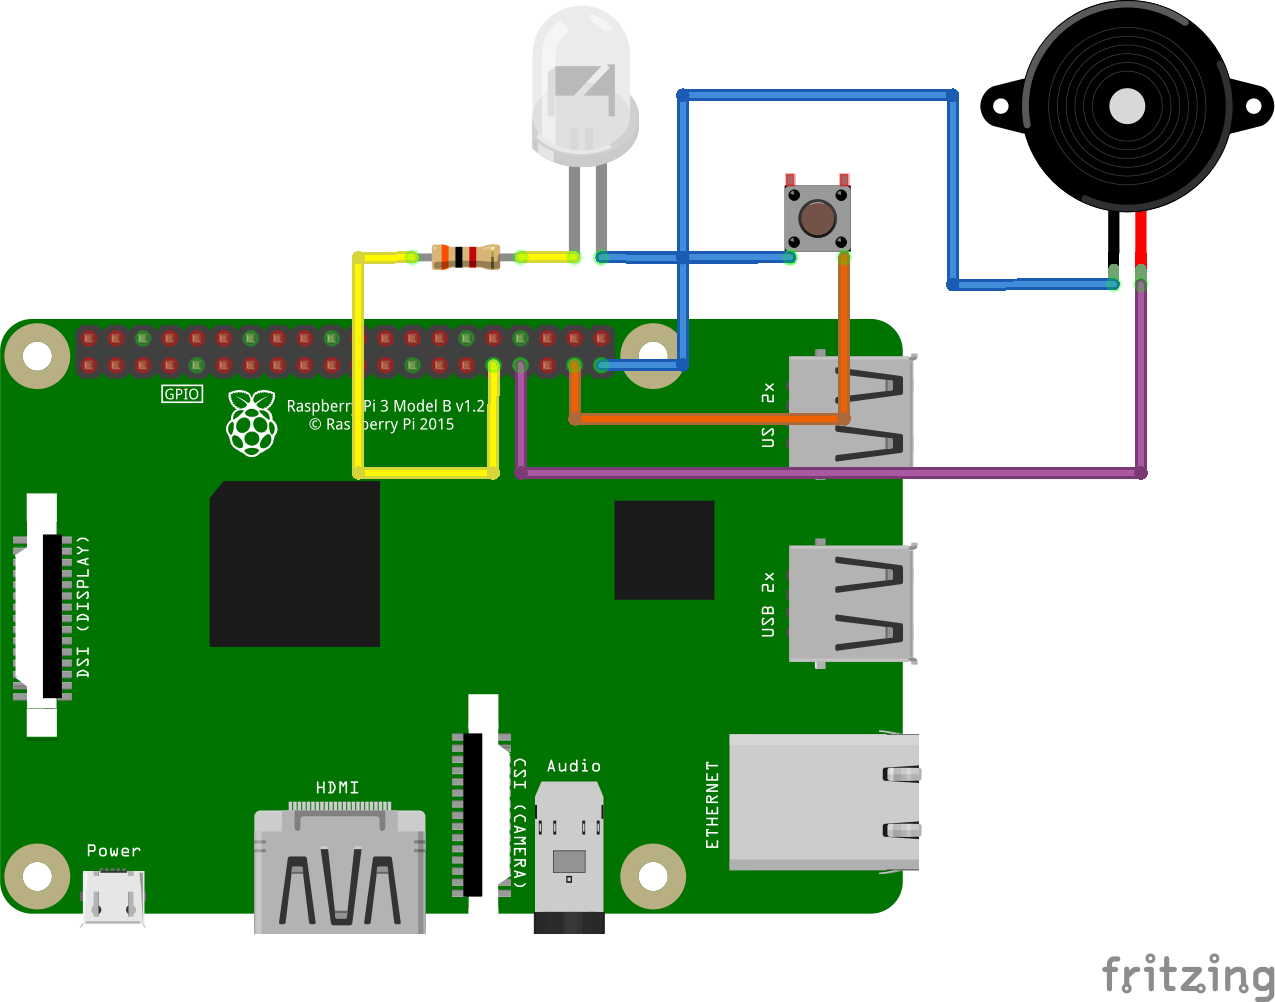
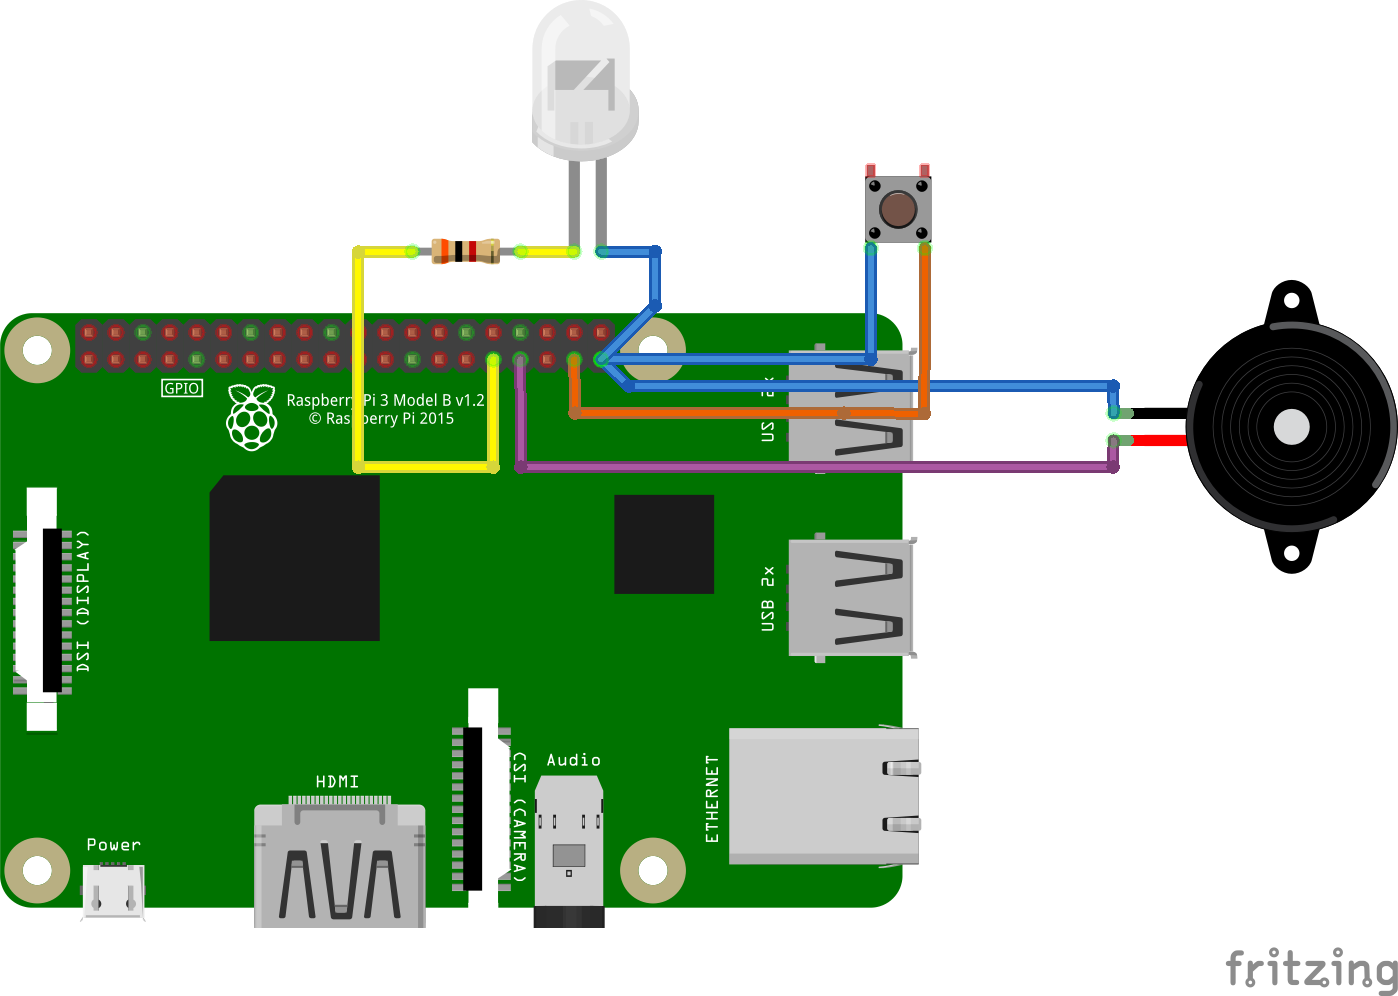
- Passive buzzers are now supported - Code optimization - Added FAQs - Updated circuit image

diff --git a/octoprint_shutdownbuttonledbuzzer/static/js/ShutdownButtonLEDBuzzer.js b/octoprint_shutdownbuttonledbuzzer/static/js/ShutdownButtonLEDBuzzer.js
@@ -20,11 +20,14 @@ $(function() {
         let self = this;
 
         self.settingsViewModel = parameters[0];
+        self.shutdownButtonLEDBuzzer = undefined;
+        self.onBeforeBinding = function () {
+            self.shutdownButtonLEDBuzzer = self.settingsViewModel.settings.plugins.shutdownbuttonledbuzzer;
+        };
 
         self.i2c_status = ko.observable("_");
         self.spi_status = ko.observable("-");
         self.updated_hour = ko.observable("-");
-
         self.set_hour = function (){
             let date = new Date($.now());
             self.updated_hour(date.toLocaleDateString() + " " + date.toLocaleTimeString());
@@ -54,7 +57,13 @@ $(function() {
             });
         }
 
+        self.buzzer_type = ko.observable();
         self.onStartupComplete = function () {
+            self.buzzer_type(self.shutdownButtonLEDBuzzer.is_buzzer_active()? "Active" : "Passive");
+            self.buzzer_type.subscribe(function (new_value) {
+                self.shutdownButtonLEDBuzzer.is_buzzer_active(new_value === "Active");
+            });
+
             self.refresh();
         }
     }

diff --git a/octoprint_shutdownbuttonledbuzzer/__init__.py b/octoprint_shutdownbuttonledbuzzer/__init__.py
@@ -22,28 +22,13 @@ import octoprint.plugin
 import os
 import subprocess
 from time import sleep
-from gpiozero import Button, Buzzer, LED
+from gpiozero import Button, Buzzer, LED, TonalBuzzer, tones
+from gpiozero.tones import Tone
 from flask import jsonify
 from concurrent.futures import ThreadPoolExecutor
 from threading import Lock
 
 __plugin_pythoncompat__ = ">=3,<4"  # only python 3
-
-DEFAULT_BUTTON_PIN = 26
-DEFAULT_LED_PIN = 6
-DEFAULT_BUZZER_PIN = 13
-DEFAULT_BEEP_MS = 50
-DEFAULT_BEEPS_ON_STARTUP = 2
-DEFAULT_BEEPS_ON_SHUTDOWN = 3
-DEFAULT_BEEPS_ON_PRESSED = 2
-DEFAULT_EN = True
-BOUNCING_TIME_MS = 500
-HOLD_TIME_S = 1
-OP_SHUTDOWN_COMMAND = "sudo service octoprint stop"
-PI_SHUTDOWN_COMMAND = "sudo shutdown -h now"
-I2C_STATUS_COMMAND = "raspi-config nonint get_i2c"
-SPI_STATUS_COMMAND = "raspi-config nonint get_spi"
-SERVICE_ENABLED_OUTPUT = "0"
 
 
 class ShutdownButtonLEDBuzzerPlugin(
@@ -54,6 +39,24 @@ class ShutdownButtonLEDBuzzerPlugin(
     octoprint.plugin.ShutdownPlugin,
     octoprint.plugin.SimpleApiPlugin
 ):
+    DEFAULT_BUTTON_PIN = 26
+    DEFAULT_LED_PIN = 6
+    DEFAULT_BUZZER_PIN = 13
+    DEFAULT_BEEP_MS = 50
+    DEFAULT_IS_BUZZER_ACTIVE = True
+    DEFAULT_BEEPS_ON_STARTUP = 2
+    DEFAULT_BEEPS_ON_SHUTDOWN = 3
+    DEFAULT_BEEPS_ON_PRESSED = 2
+    DEFAULT_ACTIVE_NOTE = 77
+    DEFAULT_EN = True
+    BOUNCING_TIME_MS = 500
+    HOLD_TIME_S = 1
+    MID_TONE = "B4"  # Client input max and min values depend on this
+    OCTAVES = 3  # Client input max and min values depend on this
+    PI_SHUTDOWN_COMMAND = "shutdown -h now"
+    I2C_STATUS_COMMAND = "raspi-config nonint get_i2c"
+    SPI_STATUS_COMMAND = "raspi-config nonint get_spi"
+    SERVICE_ENABLED_OUTPUT = "0"
 
     def __init__(self):
         super().__init__()
@@ -63,11 +66,13 @@ class ShutdownButtonLEDBuzzerPlugin(
         self.__led_pin = None
         self.__buzzer_pin = None
         self.__beep_ms = None
+        self.__is_buzzer_active = None
         self.__beeps_on_startup = None
         self.__beeps_on_shutdown = None
         self.__beeps_on_pressed = None
-        self.__is_button_en = None,
-        self.__is_led_en = None,
+        self.__active_note = None
+        self.__is_button_en = None
+        self.__is_led_en = None
         self.__is_buzzer_en = None
 
         #  Plugin data
@@ -83,31 +88,24 @@ class ShutdownButtonLEDBuzzerPlugin(
         self._logger.info('Plugin ready')
 
     def __load_settings(self):
-        # Avoid errors in case of memory saved data corruption
-        self.__button_pin = self.__pick_not_none_int("button_pin", DEFAULT_BUTTON_PIN)
-        self.__led_pin = self.__pick_not_none_int("led_pin", DEFAULT_LED_PIN)
-        self.__buzzer_pin = self.__pick_not_none_int("buzzer_pin", DEFAULT_BUZZER_PIN)
-        self.__beep_ms = self.__pick_not_none_int("beep_ms", DEFAULT_BEEP_MS)
-        self.__beeps_on_startup = self.__pick_not_none_int("beeps_on_startup", DEFAULT_BEEPS_ON_STARTUP)
-        self.__beeps_on_shutdown = self.__pick_not_none_int("beeps_on_shutdown", DEFAULT_BEEPS_ON_SHUTDOWN)
-        self.__beeps_on_pressed = self.__pick_not_none_int("beeps_on_pressed", DEFAULT_BEEPS_ON_PRESSED)
-        self.__is_button_en = self.__pick_not_none_bool("is_button_en", DEFAULT_EN)
-        self.__is_led_en = self.__pick_not_none_bool("is_led_en", DEFAULT_EN)
-        self.__is_buzzer_en = self.__pick_not_none_bool("is_buzzer_en", DEFAULT_EN)
-
-    def __pick_not_none_int(self, name, default):
-        value = self._settings.get_int([name])
-        return value if value is not None else default
-
-    def __pick_not_none_bool(self, name, default):
-        value = self._settings.get_boolean([name])
-        return value if value is not None else default
+        self.__button_pin = self._settings.get_int(["button_pin"])
+        self.__led_pin = self._settings.get_int(["led_pin"])
+        self.__buzzer_pin = self._settings.get_int(["buzzer_pin"])
+        self.__beep_ms = self._settings.get_int(["beep_ms"])
+        self.__is_buzzer_active = self._settings.get_boolean(["is_buzzer_active"])
+        self.__beeps_on_startup = self._settings.get_int(["beeps_on_startup"])
+        self.__beeps_on_shutdown = self._settings.get_int(["beeps_on_shutdown"])
+        self.__beeps_on_pressed = self._settings.get_int(["beeps_on_pressed"])
+        self.__active_note = self._settings.get_int(["active_note"])
+        self.__is_button_en = self._settings.get_boolean(["is_button_en"])
+        self.__is_led_en = self._settings.get_boolean(["is_led_en"])
+        self.__is_buzzer_en = self._settings.get_boolean(["is_buzzer_en"])
 
     def __setup(self):
         #  Set the button with a pull-up resistor, so it's measurable through a tester
         self.__close_component(self.__button)
         if self.__is_button_en:
-            self.__button = Button(self.__button_pin, hold_time=HOLD_TIME_S)
+            self.__button = Button(self.__button_pin, hold_time=ShutdownButtonLEDBuzzerPlugin.HOLD_TIME_S)
             self.__button.when_pressed = lambda: self.__shutdown_for_button()
         else:
             self.__button = None
@@ -123,7 +121,14 @@ class ShutdownButtonLEDBuzzerPlugin(
         #  Set the buzzer
         self.__close_component(self.__buzzer)
         if self.__is_buzzer_en:
-            self.__buzzer = Buzzer(self.__buzzer_pin)
+            if self.__is_buzzer_active:
+                self.__buzzer = Buzzer(self.__buzzer_pin)
+            else:
+                self.__buzzer = TonalBuzzer(
+                    self.__buzzer_pin,
+                    mid_tone=Tone(ShutdownButtonLEDBuzzerPlugin.MID_TONE),
+                    octaves=ShutdownButtonLEDBuzzerPlugin.OCTAVES
+                )
             self.__emit_beep(self.__beeps_on_startup)
         else:
             self.__buzzer = None
@@ -133,16 +138,28 @@ class ShutdownButtonLEDBuzzerPlugin(
             return
 
         self._logger.info("Shutdown command received")
-        sleep(BOUNCING_TIME_MS / 1000)
+        sleep(ShutdownButtonLEDBuzzerPlugin.BOUNCING_TIME_MS / 1000)
         self.__emit_beep(self.__beeps_on_pressed)
-        os.system(OP_SHUTDOWN_COMMAND)
-        os.system(PI_SHUTDOWN_COMMAND)
+        os.system(ShutdownButtonLEDBuzzerPlugin.PI_SHUTDOWN_COMMAND)
         #  No lock release needed
 
     def __emit_beep(self, n: int):
-        self.__beep_thread_pool.submit(self.__emit_beep_for_pool, n)
+        if self.__is_buzzer_en:
+            self.__beep_thread_pool.submit(
+                self.__emit_active_beep_for_pool if self.__is_buzzer_active else
+                self.__emit_passive_beep_for_pool,
+                n
+            )
 
-    def __emit_beep_for_pool(self, n: int):
+    def __emit_passive_beep_for_pool(self, n: int):
+        tone = Tone.from_midi(self.__active_note)
+        for i in range(n):
+            self.__buzzer.play(tone)
+            sleep(self.__beep_ms / 1000.0)
+            self.__buzzer.stop()
+            sleep(self.__beep_ms / 1000.0)
+
+    def __emit_active_beep_for_pool(self, n: int):
         for i in range(n):
             self.__buzzer.on()
             sleep(self.__beep_ms / 1000.0)
@@ -158,22 +175,27 @@ class ShutdownButtonLEDBuzzerPlugin(
         self.__beep_thread_pool.shutdown(wait=False)
         self.__close_component(self.__button)
         # LED is not turned off since it has to indicate the Raspberry GPIO shutdown
-        self.__emit_beep_for_pool(self.__beeps_on_shutdown)
+        if self.__is_buzzer_active:
+            self.__emit_active_beep_for_pool(self.__beeps_on_shutdown)
+        else:
+            self.__emit_passive_beep_for_pool(self.__beeps_on_shutdown)
         self.__close_component(self.__buzzer)
         self._logger.info("Plugin closed")
 
     def get_settings_defaults(self):
         return dict(
-            button_pin=DEFAULT_BUTTON_PIN,
-            buzzer_pin=DEFAULT_BUZZER_PIN,
-            led_pin=DEFAULT_LED_PIN,
-            beep_ms=DEFAULT_BEEP_MS,
-            beeps_on_startup=DEFAULT_BEEPS_ON_STARTUP,
-            beeps_on_shutdown=DEFAULT_BEEPS_ON_SHUTDOWN,
-            beeps_on_pressed=DEFAULT_BEEPS_ON_PRESSED,
-            is_button_en=DEFAULT_EN,
-            is_led_en=DEFAULT_EN,
-            is_buzzer_en=DEFAULT_EN
+            button_pin=ShutdownButtonLEDBuzzerPlugin.DEFAULT_BUTTON_PIN,
+            buzzer_pin=ShutdownButtonLEDBuzzerPlugin.DEFAULT_BUZZER_PIN,
+            is_buzzer_active=ShutdownButtonLEDBuzzerPlugin.DEFAULT_IS_BUZZER_ACTIVE,
+            led_pin=ShutdownButtonLEDBuzzerPlugin.DEFAULT_LED_PIN,
+            beep_ms=ShutdownButtonLEDBuzzerPlugin.DEFAULT_BEEP_MS,
+            beeps_on_startup=ShutdownButtonLEDBuzzerPlugin.DEFAULT_BEEPS_ON_STARTUP,
+            beeps_on_shutdown=ShutdownButtonLEDBuzzerPlugin.DEFAULT_BEEPS_ON_SHUTDOWN,
+            beeps_on_pressed=ShutdownButtonLEDBuzzerPlugin.DEFAULT_BEEPS_ON_PRESSED,
+            active_note=ShutdownButtonLEDBuzzerPlugin.DEFAULT_ACTIVE_NOTE,
+            is_button_en=ShutdownButtonLEDBuzzerPlugin.DEFAULT_EN,
+            is_led_en=ShutdownButtonLEDBuzzerPlugin.DEFAULT_EN,
+            is_buzzer_en=ShutdownButtonLEDBuzzerPlugin.DEFAULT_EN
         )
 
     def on_settings_save(self, data):
@@ -197,17 +219,17 @@ class ShutdownButtonLEDBuzzerPlugin(
 
     @staticmethod
     def __get_i2c_status():
-        return ShutdownButtonLEDBuzzerPlugin.__get_service_status(I2C_STATUS_COMMAND)
+        return ShutdownButtonLEDBuzzerPlugin.__get_service_status(ShutdownButtonLEDBuzzerPlugin.I2C_STATUS_COMMAND)
 
     @staticmethod
     def __get_spi_status():
-        return ShutdownButtonLEDBuzzerPlugin.__get_service_status(SPI_STATUS_COMMAND)
+        return ShutdownButtonLEDBuzzerPlugin.__get_service_status(ShutdownButtonLEDBuzzerPlugin.SPI_STATUS_COMMAND)
 
     @staticmethod
     def __get_service_status(command: str):
         try:
             out = subprocess.run(command.split(), capture_output=True).stdout.decode("utf-8").strip()
-            return "enabled" if (out == SERVICE_ENABLED_OUTPUT) else "disabled"
+            return "enabled" if (out == ShutdownButtonLEDBuzzerPlugin.SERVICE_ENABLED_OUTPUT) else "disabled"
         except FileNotFoundError:
             return "undefined"
 

diff --git a/setup.py b/setup.py
@@ -9,12 +9,12 @@ plugin_identifier = "shutdownbuttonledbuzzer"
 # The plugin's python package, should be "octoprint_<plugin identifier>", has to be unique
 plugin_package = "octoprint_" + plugin_identifier
 
-# The plugin's human readable name. Can be overwritten within OctoPrint's internal data via __plugin_name__ in the
+# The plugin's human-readable name. Can be overwritten within OctoPrint's internal data via __plugin_name__ in the
 # plugin module
 plugin_name = "ShutdownButtonLEDBuzzer"
 
 # The plugin's version. Can be overwritten within OctoPrint's internal data via __plugin_version__ in the plugin module
-plugin_version = "0.1.2"
+plugin_version = "0.1.3"
 
 # The plugin's description. Can be overwritten within OctoPrint's internal data via __plugin_description__ in the plugin
 # module

diff --git a/README.md b/README.md
@@ -6,9 +6,8 @@ OctoPrint is ready and a buzzer to signal the startup and
 the shutdown. Remember that these signals may vary of few
 seconds.
 
-## Note
-
-This plugin uses an **active** buzzer.
+This plugin supports both active and passive buzzers. By default,
+it assumes to have an active one.
 
 ## Setup
 
@@ -46,8 +45,27 @@ accessible in the apposite OctoPrint section in setting:
 ![settings2](docs/settings2.png)
 ![settings3](docs/settings3.png)
 
-## License
+## FAQ
 
+#### _What resistor does it need to use?_ 
+
+There is no a precise resistor needed, since it depends on how much
+light is needed. Despite this, it is suggested to use a value at
+least of few thousands of ohms. Always remember to check the 
+connections and the datasheet.
+
+#### _Which buzzer does it need?_
+
+The plugin supports both active that passive buzzer, but it is
+necessary to configure them by the settings panel.
+
+#### Which LED does it need?
+
+A 5 mm LED is a good option, and it is usually in Arduino kits.
+In case a different one is attached, check that the current it needs
+is lower than the one a Raspberry pin can give.
+
+## License
 
 This software is distributed on GPLv3.0, more information
 available in [LICENSE.md](
